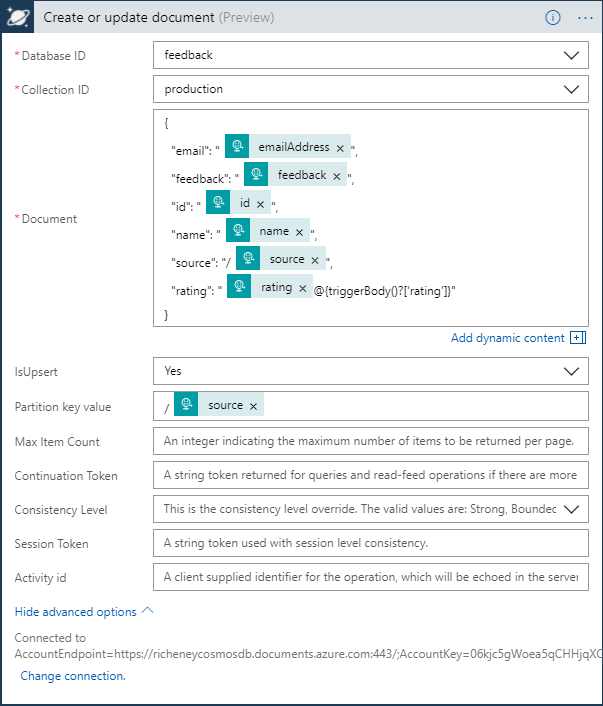
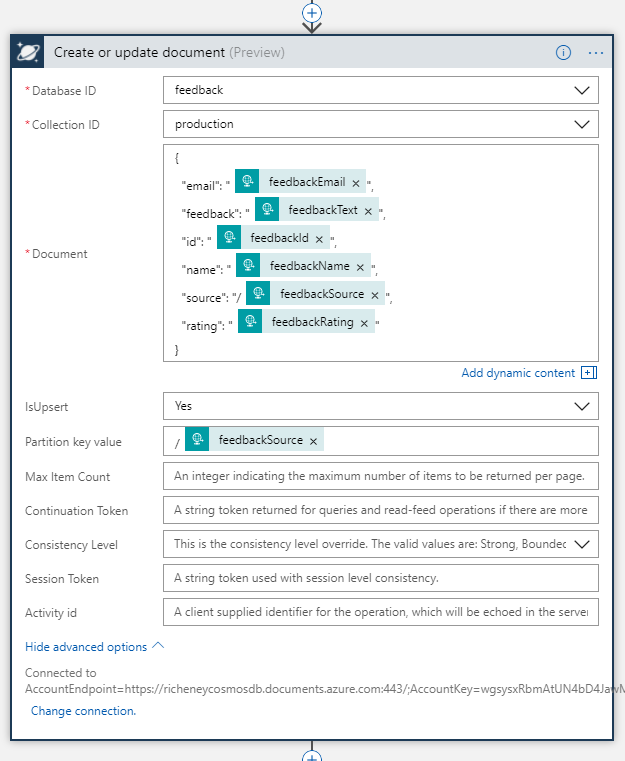
Many, many Logic App changes following review by Andrew Bourne

Changed region(s): [[0.0, 0.0, 1.0, 1.0]]

diff --git a/_pages/azure101/azure101LogicAppLab.md b/_pages/azure101/azure101LogicAppLab.md
@@ -18,17 +18,20 @@ Logic App lab for the Azure 101 workshop.
 
 ## Introduction
 
-Logic Apps are quick plug and play "if .. then ..." constructs to help developers and power users to quickly integrate systems.  They complement some of the other PaaS type offerings such as serverless Functions, or Event Grid and other event based services.
+Logic Apps are quick plug and play "if .. then ..." constructs to help developers and power users to quickly integrate systems.  They complement some of the other PaaS type offerings such as serverless Functions, Event Grid and other event based services.
 
-In this logic app lab we will create a quick HTTP endpoint for feedback, that could then be used by websites, mobile apps or custom applications.  The feedback could be added into a Service Bus, or added to a persistent database.  
+In this logic app lab we will create an HTTP endpoint that will be used to receive user feedback.  This REST API could then be used by our fictional websites, mobile apps and custom applications.    
 
-In our logic app we will be sending an email out containing the feedback information in this lab if the feedback rating is poor.
+We will build up the Logic App in steps:
+1. Create the basic REST API using a JSON schema, and test that is responds
+2. Add on a conditional branch that emails us if the feedback rating is poor
+3. Inserts a logging mechanism to retain all of the feedback in the document database API for Cosmos DB
 
-## Tutorial
+We will trigger the tests using the Postman application which is a standard way to test REST API interfaces.  The REST standard supports create, read, update and post (CRUD) actions, but we will only be using the POST action.
 
-### Deploy Cosmos DB
+## Deploy Cosmos DB
 
-The Cosmos DB will take a little while to fully deploy, so we'll deploy that first. 
+We won't be using the Cosmos DB until the end of the lab, but we'll deploy it first as it will take a little while to be created.
 
 * Click **Add** in the Azure101PaaS resource group
 * Add Azure Cosmos DB
@@ -37,97 +40,126 @@ The Cosmos DB will take a little while to fully deploy, so we'll deploy that fir
   * Resource Group: **Azure101PaaS**
   * Location: **West Europe**
 
-Now open up another tab and continue with the following steps.   
+Now open up the Azure portal in a new tab and continue with the following steps.   
 
-### JSON Payload
+## JSON Payload
 
 * Open the [example JSON payload](./feedback.json) into a new tab.  This is the format that the various applications will use for feedback into our system.  
   * The ID is the number of UTC milliseconds
   * The rating is an integer score of 1 to 5 inclusive, i.e. based on the number of stars the fictitious user has rated it on
-* Open the [JSON schema](./schema.json) into a new tab.  The schema describes the expected format.  This has been created using the example payload via the excellent https://jsonschema.net website. 
+* Open the [JSON schema](./schema.json) into a new tab.  The schema describes the expected format.  This has been created using the example payload via the excellent https://jsonschema.net website and then modified to customise the variable titles, descriptions, etc.
 * Select the schema contents and copy them to the clipboard as we will use this later when defining the Logic App.
 
-### Create the Logic App
+## Create the Logic App
 
-* Click on **+New** or **Add** 
+* Click on **New** or **Add** 
 * Find _Logic App_ and click on **Create**
-  * Name: **feedbackWorkflow**
+  * Name: **feedbackLogicApp**
   * Resource Group: **Azure101PaaS**
   * Location: **West Europe**
 * Click into the new Logic App once deployed
 * Select **Blank Logic App** in the Logic Apps Designer screen
 
-### Define the Logic
+## Define the REST API endpoint
 
-We'll define a REST API point, and the expected schema for the JSON.  Once the request has been received then we'll send back a response.
+We'll create a REST API point, and define the expected schema for the JSON.  Once a valid request has been received then we'll send back an HTTP response.
 
-If the rating is below 3, then we'll send ourselves an email.
-
-#### Request
+### Request
 
 * Search for **Request** / Response for the trigger
   * Paste in the JSON schema
+  
+_Note that the JSON describes the keys in order to give them titles such as_ feedbackEmail_. We will then be able to use as dynamic content later in the lab, much like a variable._ 
 
-#### Response
+### Response
 
 * Click on **+New Step** and then **Add an action**
 * Search for Request / **Response** for the action
   * Use the default HTTP status code of 200
-  * Add a header, with **_id_** as the key and **_Feedback: id_** as the value
-    * Click on the _Add dynamic content_ button and select **Feedback: id**
-  * Body: **Feedback received from _Feedback: emailAddress_**
+  * Add a header, with **_id_** as the key and **_feedbackId_** as the value
+    * Click on the _Add dynamic content_ button and select **feedbackId**
+  * Body: **Feedback received from _feedbackEmail_**
 
 ![](../../images/logicAppRequestResponse.png)
 
-#### Send an email
+### Test the endpoint
 
-* Click on **+New Step** and then **Add a condition**
-  * Value:  **_Feedback: rating_**
-  * Operator: **is less than**
-  * Value: **3**
-* In the "If true" branch, add an action
-* search for "_email_" and choose a platform.  The steps below are for Office 365 Outlook.
-  * Click on the **Send an Email** action
-  * Sign in to create the connection
-  * To: **yourEmailAddress**
-  * Subject: **Feedback from _Feedback: name_**
-  * Body: Add in all of the useful information from the JSON payload
-* Click on **Save**
-
-![](../../images/logicAppEmail.png)
-
-### Test the Logic App
-
-* Click on the breadcrumb for the Logic App itself rather than the Designer to show the Trigger History in the Overview
-* Click on the copy icon on the right of the **Callback url [POST]**.  This is the HTTP REST API endpoint.
+* Click on the Logic App name at the top of the portal (breadcrumbs) to show the Overview screen for the Logic App
+* Click on the copy icon on the right of the **Callback url [POST]** in the Trigger History pane.  This is the HTTP REST API endpoint.
 * Open up the Postman app, skipping login
-  * Change the action to **POST**
+  * Change the action from **GET** to **POST** in the drop list 
   * Paste the HTTP REST API into the _Enter request URL_ field
-  * Leave Authorization as _No Auth_
-  * Add one header:
+  * On the Authorization tab, leave type as _No Auth_
+  * On the Headers tab, add one key-value pair:
     * Key: **Content-Type**
     * Value: **application/json**
-  * Toggle the Body type to raw
+
+![](../../images/postmanHeaders.png)  
+
+  * On the Body tab, toggle the body type to raw
   * Open the [example JSON payload](./feedback.json) we saw earlier into a new tab, and copy the contents to the clipboard 
   * Paste the JSON payload into Postman
   * Click on the blue **Send** button
   * The HTTP response from the Logic App should show in the bottom pane:
 
-![](../../images/postman.png)  
+![](../../images/postmanBody.png)
 
-### Finishing up
+  * The headers of the response also include the id number  
+
+### Checking the Logic App run
 
 * Go to the Overview area of the Logic App
 * Check that there is a new entry in the Trigger History
 * Click on the new **Runs History** entry to view the details
   * Open up the individual steps to view the inputs and outputs
-* Check your inbox and verify that the feedback email has been received
-* Go into the **Azure101PaaS** resource group and review the new resources that have been created 
 
-### Adding a permanent record into Cosmos DB
+![](../../images/logicAppRun.png)
+
+
+## Send an email if feedback rating is poor
+
+We will now add a conditional action that will only email us if the feedback rating is less than three.
+
+### Create the conditional action
+
+* Click on **+New Step** and then **Add a condition**
+  * Value:  **_feedbackRating_**
+  * Operator: **is less than**
+  * Value: **3**
+* In the "If true" branch, add an action
+* Search for "_email_" and choose a platform.  The steps below are for Office 365 Outlook.
+  * Click on the **Send an Email** action
+  * Sign in to create the connection
+  * To: **yourEmailAddress**
+  * Subject: **Feedback from _feedbackName_**
+  * Body: Add in all of the useful information from the JSON payload to create the body of the email.  The screenshot below gives an example.
+
+![](../../images/logicAppEmail.png)
+
+* Click on **Save**
+
+### Retest the Logic App
+
+* Go back into the Postman app, skipping login
+* Modify some of the values for the raw JSON (optional)
+* Ensure that the value for the rating is either 1 or 2
+* Click on **Send**
+* Now go to the Overview area of the Logic App
+* Check the details of the new **Runs History** entry
+* Check your inbox and verify that the feedback email has been received
+
+![](../../images/logicAppEmailTest.png)
+
+## Adding a permanent record into Cosmos DB
+
+We will now insert a step to retain the submitted feedback JSON documents, and store them.  Cosmos DB is a globally distributed multi-model database, and the model type selected earlier in the lab was SQL (Document DB), which is perfect for storing JSON documents.
+
+We'll now add a collection called production into our feedback database, and we'll partition it based on the source.  Then we'll add the step into the Logic App to add the document to the database.   
+
+### Define the collection
 
 * Go into the Cosmos DB resource
-* Add a **Collection**
+* Click on **Add Collection** in the Overview
   * Collection Id: **production**
   * Storage Capacity: **Fixed (10GB)**
   * Initial Throughput Capacity (RU/s): **400**
@@ -137,9 +169,12 @@ If the rating is below 3, then we'll send ourselves an email.
 ![](../../images/collection.png)  
 
 * In the Cosmos DB Overview area, copy the URI
-  * URI form **https://_\<ID>_.documents.azure.com:443/**
-*Open up a new tab and go back into your Logic App
-* Click on **Edit** to open the Logic App Designer
+  * The URI is in the form **https://_\<ID>_.documents.azure.com:443/**
+
+### Add the Create Document step and connect to Cosmos DB
+
+* Open up a new tab and go back into your Logic App
+* Click on **Edit** to re-open the Logic App Designer
 * Add a new action between Response and the Condition
   * Hover the mouse over the arrow under Response and a **+** sign will appear
 * Search on Cosmos DB and select _Create or update document_
@@ -150,37 +185,55 @@ If the rating is below 3, then we'll send ourselves an email.
     * **Account ID** = first part of URI, i.e. https://**\<Account ID>**.documents.azure.com:443/ 
     * **Access Key** = Primary Key
   * _Tip_: Open up a new tab or window to portal.azure.com and copy the values using the icon on the right of each field  
-* Set the parameters for the _Create or update document_ action
-  * **Database ID**: Select _TablesDB_ from the drop down
-  * **Collection ID**: Select _feedback_ from the drop down
-  * **Document**: Enter the following, replace ``_variableName`` with the dynamic content:
-  ```
-  {
-    "email": "_Feedback: emailAddress_",
-    "feedback": "_Feedback: feedback_",
-    "id": "_Feedback: id_",
-    "name": "_Feedback: name_",
-    "source": "/_Feedback: source_",
-    "rating": "_Feedback: rating_"
-  }
-  ```
+* Example connection screen below:
+
+![](../../images/cosmosDbManualConnection.png)  
+
+### Define the document format and placement
+
+Set the parameters for the _Create or update document_ action:
+
+* **Database ID**: Select _feedback_ from the drop down
+* **Collection ID**: Select _production_ from the drop down
+* **Document**: Enter the following, replacing ``_feedbackVarname_`` with the relevant dynamic content:
+
+```
+{
+  "email": "_feedbackEmail_",
+  "feedback": "_feedbackText_",
+  "id": "_feedbackId_",
+  "name": "_feedbackName_",
+  "source": "/_feedbackSource_",
+  "rating": "_feedbackRating_"
+}
+```
   
-  * Set **IsUpsert** to _Yes_
-    * This allows both updates and inserts
-  * In advanced option, set the **Partition key value** to /_Feedback: source_
-  * _Note the leading slash in the partition value, and that this exactly matches the source variable in the JSON - this is key to make the partitioning work_
-* Save
-* Below is an example of the _Create or update document_ logic
+* Set **IsUpsert** to _Yes_
+  * This allows both updates and inserts
+* In advanced options, set the **Partition key value** to /_\_feedbackSource\_
+
+Below is an example of the _Create or update document_ logic
 
 ![](../../images/logicAppDocument.png)  
+
+
+  _
+  * _Note the leading slash in the partition key value, source, and that this exactly matches the source variable in the JSON.  Also that we defined /source as the partition key when we added the collection.  This is key to make the partitioning work._
+* Save
+
+### Test the whole Logic App workflow
 
 * Retest a feedback submission by going into Postman, changing the body of the JSON (choose a new name, email address and feedback message) and then clicking **Send**
 * Check the Run History and view the outputs
 * Go into Cosmos DB and use the Data Explorer to verify that the feedback is beeing collected successfully
+
+## Final notes
+
 * Note that the logic app also allows drag and drop reordering of steps
   * Prove this by moving the Cosmos DB document step above the HTTP Response
 * It is also possible to cosmetically rename the steps
-
+* If you have time then explore the other inbuilt connectors offered by Logic Apps
+  * Note that Functions can also be integrated into Logic Apps for full flexibility
 
 -------------------------------------------------------
 ## Quick Navigate:
